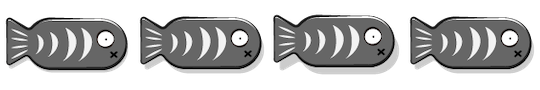
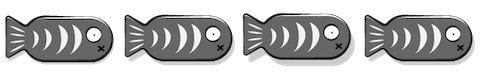
change fish bomb and coin size from 90 to 80

diff --git a/assets/js/goodFish.js b/assets/js/goodFish.js
@@ -1,9 +1,9 @@
 class GoodFish {
   _image;
   _x = 200;
-  _y = 100;
-  _spriteWidth = 135;
-  _spriteHeight = 90;
+  _y = 140;
+  _spriteWidth = 120;
+  _spriteHeight = 80;
   _spriteFrames = 4;
   _currentFrames = 0;
 

diff --git a/assets/js/badFish.js b/assets/js/badFish.js
@@ -1,9 +1,9 @@
 class BadFish {
   _image;
   _x = 400;
-  _y = 100;
-  _spriteWidth = 135;
-  _spriteHeight = 90;
+  _y = 140;
+  _spriteWidth = 120;
+  _spriteHeight = 80;
   _spriteFrames = 4;
   _currentFrames = 0;
 

diff --git a/assets/js/coin.js b/assets/js/coin.js
@@ -1,9 +1,9 @@
 class Coin {
   _image;
   _x = 500;
-  _y = 400;
-  _spriteWidth = 90;
-  _spriteHeight = 90;
+  _y = 460;
+  _spriteWidth = 80;
+  _spriteHeight = 80;
   _spriteFrames = 20;
   _currentFrames = 0;
 

diff --git a/assets/js/bomb.js b/assets/js/bomb.js
@@ -1,7 +1,7 @@
 class Bomb {
   _image;
   _x = 600;
-  _y = 100;
+  _y = 120;
   _spriteWidth = 100;
   _spriteHeight = 100;
   _spriteFrames = 4;
